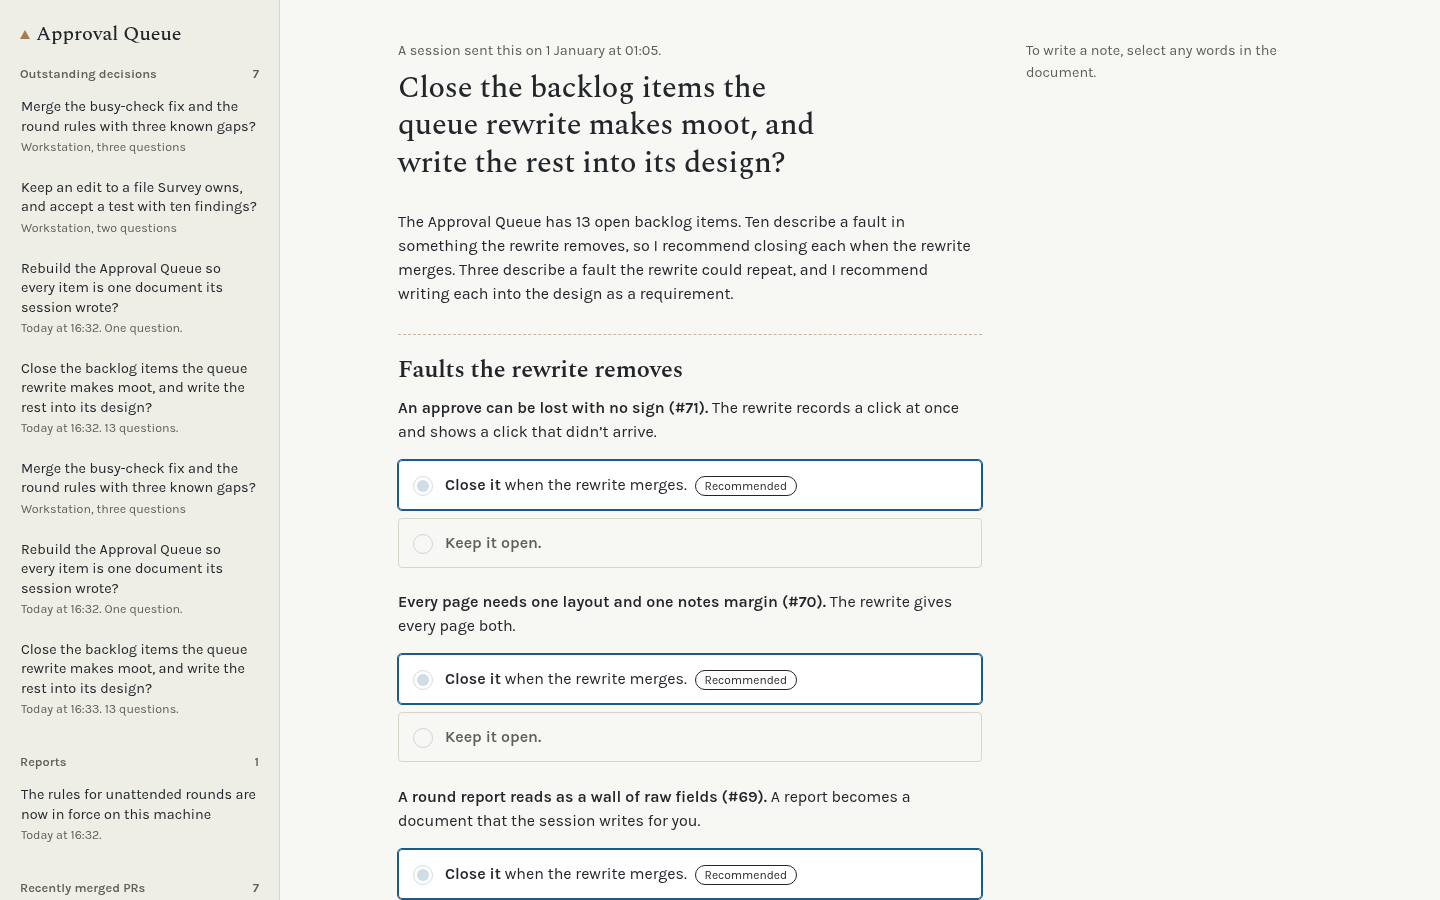
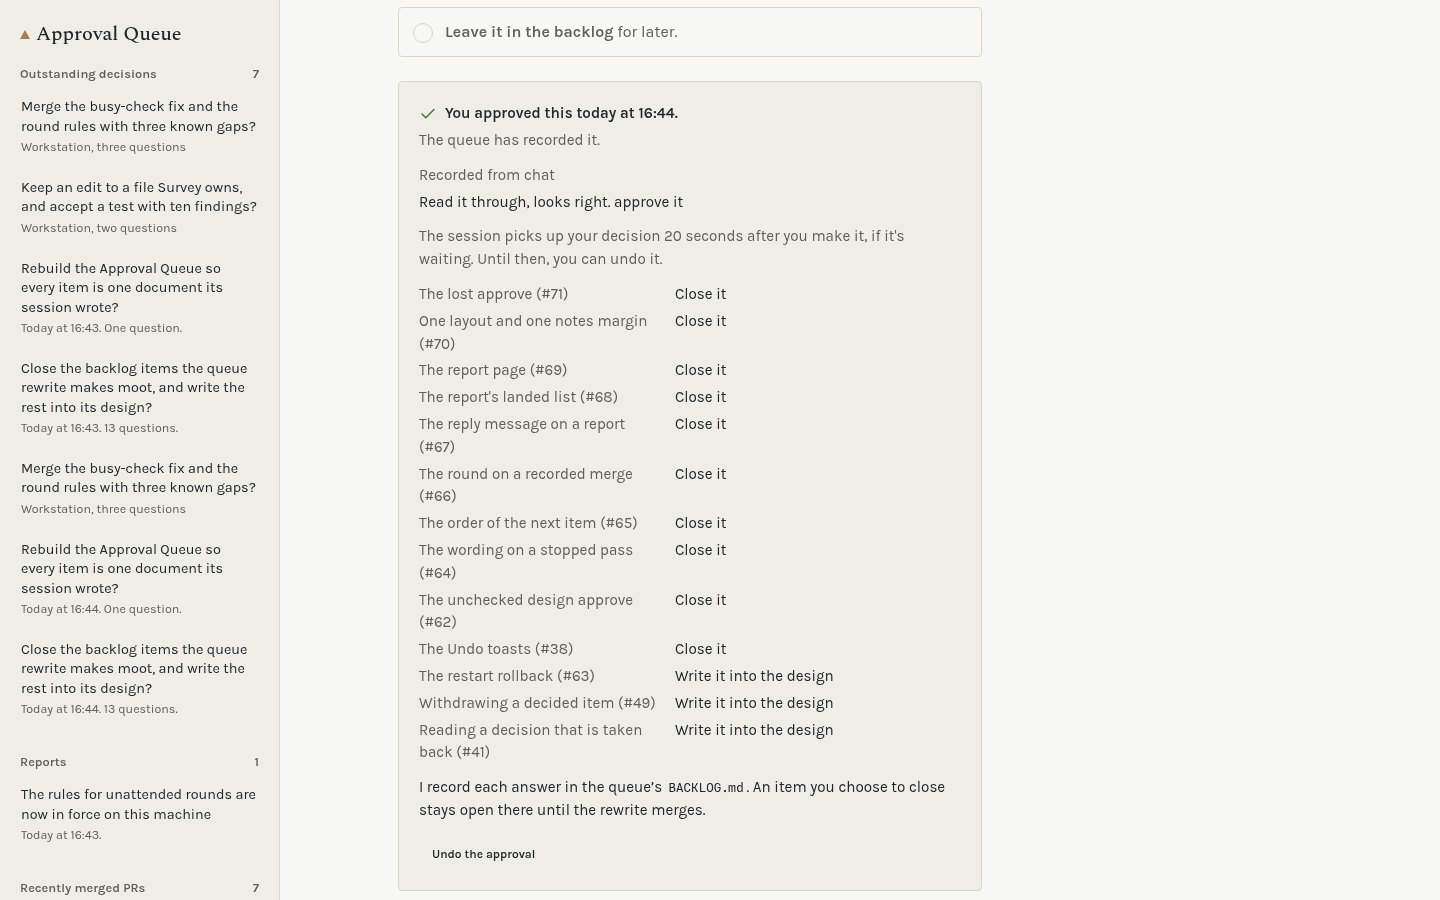
Show the decided panel in check 8's screenshot and guard reports by the parsed kind

diff --git a/approval-queue/cli/answer.ts b/approval-queue/cli/answer.ts
@@ -133,7 +133,7 @@ function answerExisting(args: Args): number {
 		if (typeof picks === 'string') return refuse(picks);
 		const extra = { via: 'chat', message: found.message, session: found.session };
 		if (args.action === 'sendback') {
-			if (meta.kind === 'report') return refuse(DOC.badAction);
+			if (doc.kind === 'report') return refuse(DOC.badAction);
 			const refused = writeChatNote(root, id, args, found.outside, meta.versions, source, doc.title);
 			if (refused) return refuse(refused);
 		}
